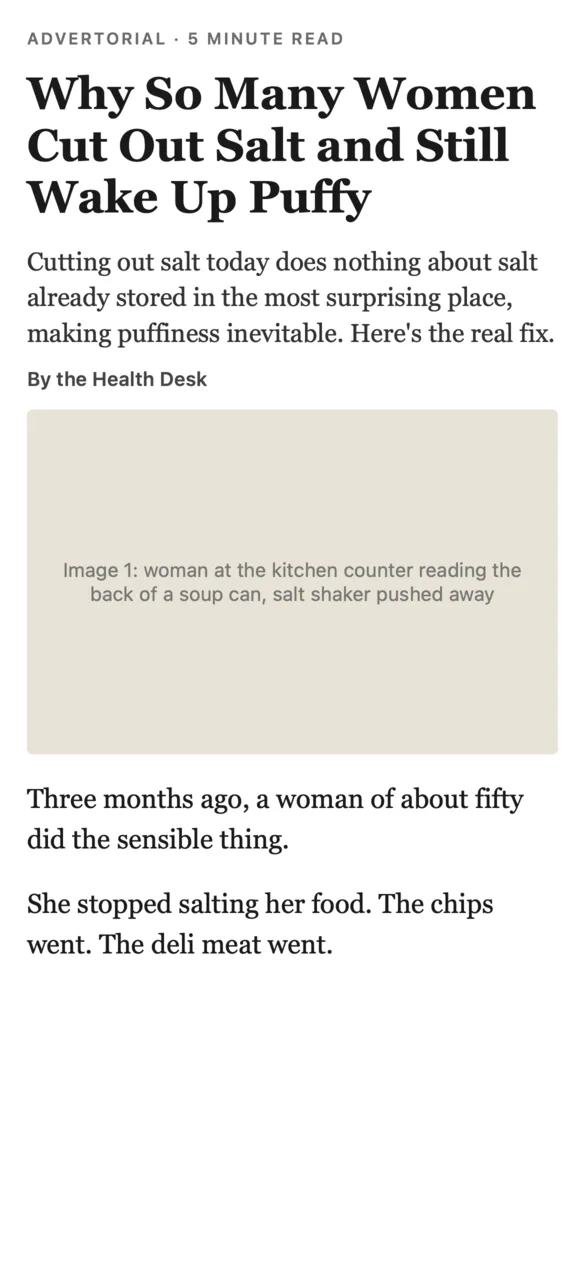
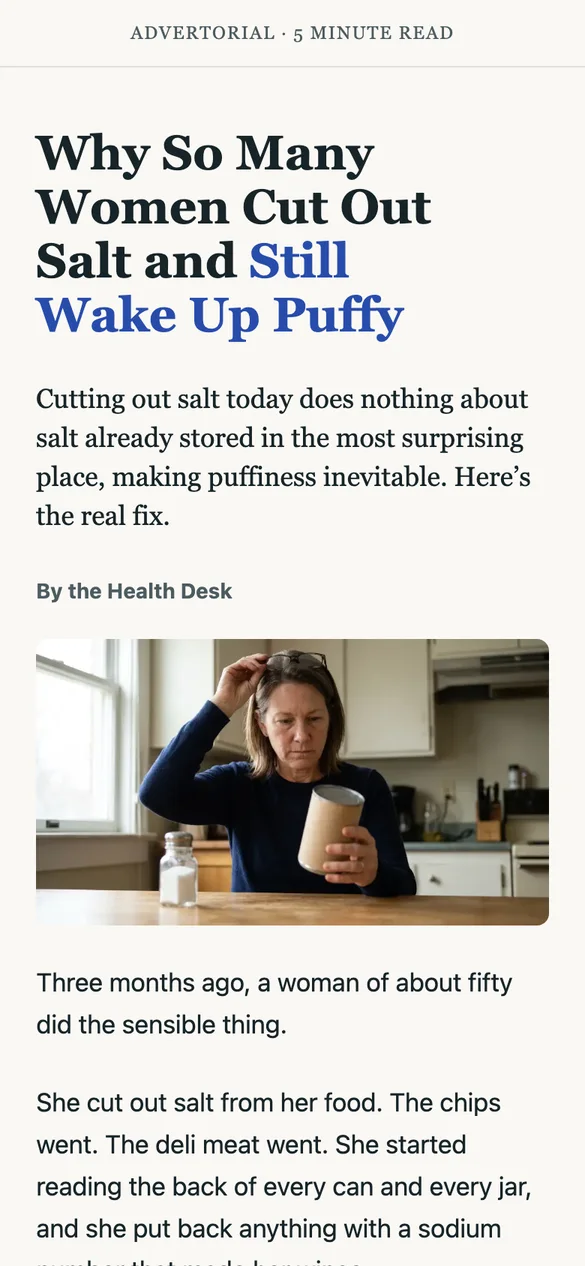
Hub: real phone first-screen screenshot of the demo page replaces the pre-image mock

diff --git a/index.html b/index.html
@@ -117,9 +117,9 @@
 
   <h3 class="sec">The phone first screen</h3>
   <div class="split">
-    <img loading="lazy" src="assets/salt-first-screen.webp" alt="Mock of the first screen of the page on a phone">
+    <img loading="lazy" src="assets/salt-first-screen.webp" alt="The first screen of the demo page on a phone">
     <div>
-      <p class="note">This is the mock of what a reader sees on a phone before scrolling: the headline, the subheadline, the byline, image 1 and the start of the story. The build should match it.</p>
+      <p class="note">This is the demo page on a phone before any scrolling: the headline, the subheadline, the byline, image 1 and the start of the story. The build should match it.</p>
       <ul class="plain">
         <li>No logo and no Paletrove name above the "Introducing Paletrove Lymphatic Support" section. The byline is "By the Health Desk".</li>
         <li>Image 1 sits below the headline and the subheadline.</li>
@@ -236,7 +236,7 @@
 
 </div>
 <!-- pages-fresh:start -->
-<div id="pf-pill" data-build="20261110-113700" style="position:fixed;right:18px;bottom:18px;
+<div id="pf-pill" data-build="20261110-114555" style="position:fixed;right:18px;bottom:18px;
   z-index:2147483000;display:none;background:#FFC72C;color:#1a1708;font-weight:800;
   font-size:14px;line-height:1;padding:13px 20px;border-radius:40px;cursor:pointer;
   font-family:system-ui,-apple-system,Segoe UI,Roboto,sans-serif;

diff --git a/salt/index.html b/salt/index.html
@@ -442,7 +442,7 @@ img { max-width: 100%; height: auto; display: block; }
 </footer>
 
 <!-- pages-fresh:start -->
-<div id="pf-pill" data-build="20261110-113700" style="position:fixed;right:18px;bottom:18px;
+<div id="pf-pill" data-build="20261110-114555" style="position:fixed;right:18px;bottom:18px;
   z-index:2147483000;display:none;background:#FFC72C;color:#1a1708;font-weight:800;
   font-size:14px;line-height:1;padding:13px 20px;border-radius:40px;cursor:pointer;
   font-family:system-ui,-apple-system,Segoe UI,Roboto,sans-serif;
